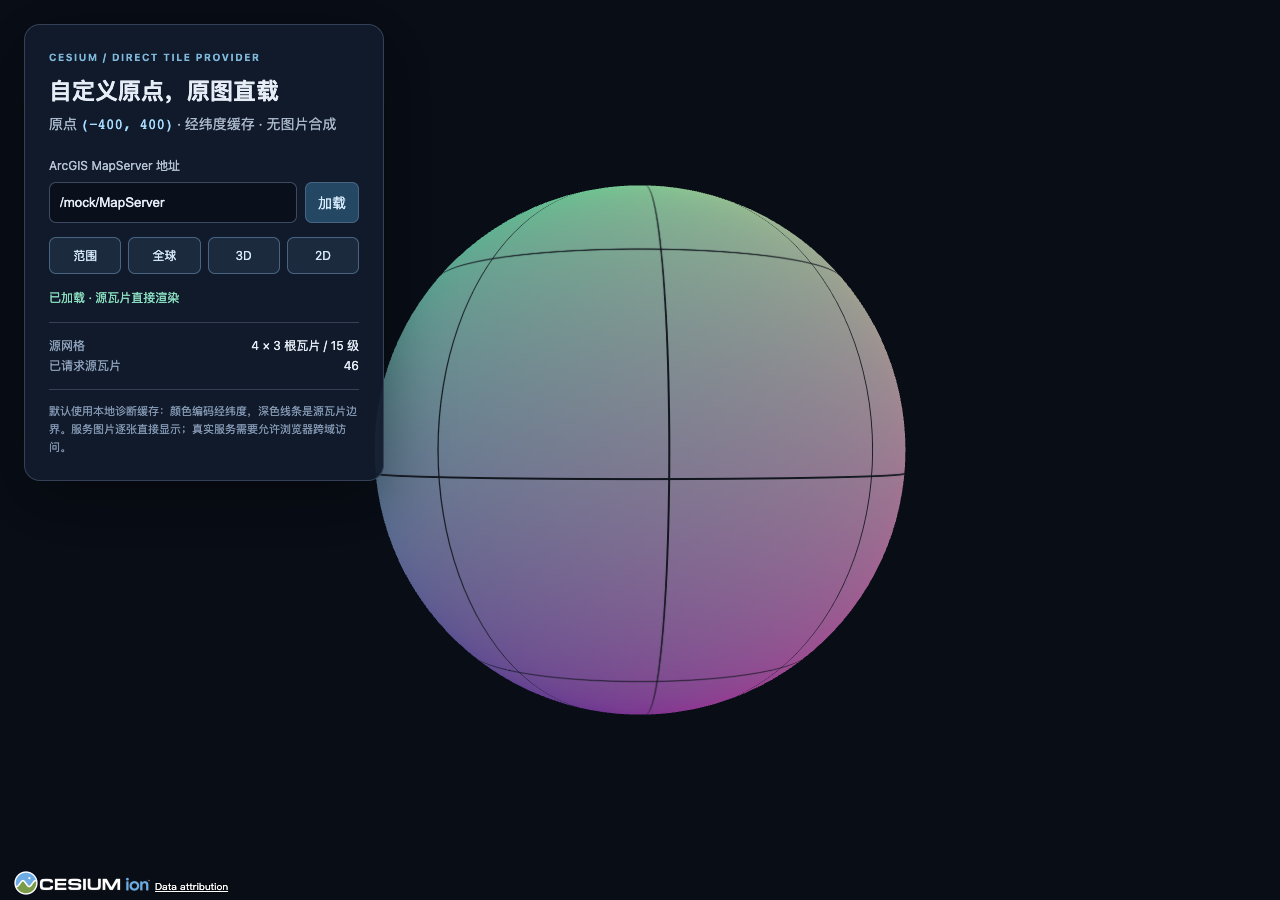
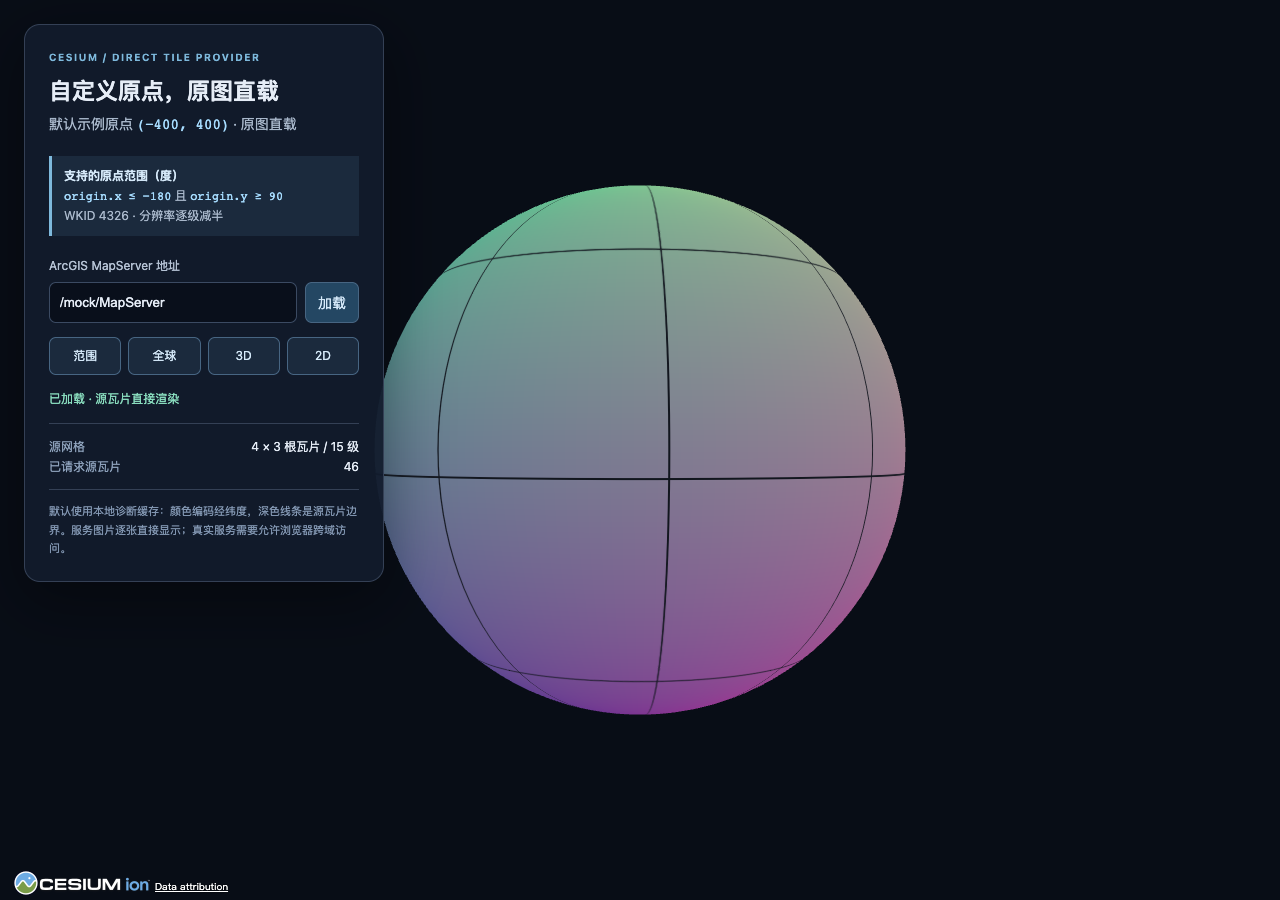
Clarify example origin and supported geographic bounds [skip ci]

diff --git a/src/index.d.ts b/src/index.d.ts
@@ -34,7 +34,7 @@ export interface ArcGisLevelOfDetail {
 export interface ArcGisTileInfo {
   rows: number;
   cols: number;
-  /** Source origin in degrees, with x <= -180 and y >= 90. */
+  /** Finite source origin in degrees. Both x <= -180 AND y >= 90 are required. */
   origin: { x: number; y: number };
   spatialReference: ArcGisSpatialReference;
   lods: ArcGisLevelOfDetail[];
@@ -103,6 +103,8 @@ export class OffsetGeographicTilingScheme extends GeographicTilingScheme {
 /**
  * Direct ArcGIS geographic cache imagery. No image composition, canvas,
  * reprojection, or Cesium prototype patching is performed.
+ * Requires WKID 4326, origin.x <= -180 AND origin.y >= 90 (degrees),
+ * and halving LOD resolutions. Reads the origin from service metadata.
  * Optional Cesium properties follow the upstream ImageryProvider declarations.
  */
 export class ArcGisOffsetImageryProvider implements ImageryProvider {

diff --git a/src/OffsetGeographicTilingScheme.js b/src/OffsetGeographicTilingScheme.js
@@ -40,8 +40,9 @@ function floorCoordinate(value) {
  * its entire image into the clipped area and produce incorrect texture UVs.
  * Use this scheme for imagery, never for a terrain provider or camera bounds.
  *
- * The original grid is padded to whole root tiles covering the world. For
- * origin (-400, 400), 256-pixel tiles and resolution 0.703125, that is a 4 x 3
+ * Supported origins must be finite, with x <= -180 AND y >= 90 (degrees).
+ * The original grid is padded to whole root tiles covering the world. As an
+ * example, origin (-400, 400), 256-pixel tiles and resolution 0.703125 give a 4 x 3
  * root grid over [-400, -140, 320, 400] degrees. Consequently Cesium's normal
  * LOD calculation still sees 720 / 4 = 180 degrees per root tile, and its
  * floor(x / 2), floor(y / 2) parent indices are the ArcGIS source parents.

diff --git a/index.html b/index.html
@@ -11,7 +11,8 @@
     <aside class="panel">
       <div class="eyebrow">CESIUM / DIRECT TILE PROVIDER</div>
       <h1>自定义原点，原图直载</h1>
-      <p>原点 <code>(−400, 400)</code> · 经纬度缓存 · 无图片合成</p>
+      <p>默认示例原点 <code>(−400, 400)</code> · 原图直载</p>
+      <p class="support-range"><strong>支持的原点范围（度）</strong><br /><code>origin.x ≤ −180</code> 且 <code>origin.y ≥ 90</code><br />WKID 4326 · 分辨率逐级减半</p>
       <form id="service-form">
         <label for="service-url">ArcGIS MapServer 地址</label>
         <div class="input-row"><input id="service-url" value="/mock/MapServer" spellcheck="false" /><button type="submit">加载</button></div>

diff --git a/demo/style.css b/demo/style.css
@@ -6,6 +6,8 @@ body { background: #080d16; color: #e6edf7; font: 14px/1.65 -apple-system, Blink
 h1 { font-size: 23px; margin: 9px 0 5px; line-height: 1.4; }
 p { color: #a9b8cb; margin: 5px 0 20px; }
 code { color: #a6dcff; }
+.support-range { padding: 10px 12px; border-left: 3px solid #7eb9dc; background: #1b2a3d; font-size: 12px; }
+.support-range strong { color: #d6eafa; }
 label { display: block; font-size: 12px; color: #b5c2d4; margin-bottom: 6px; }
 .input-row { display: flex; gap: 8px; }
 input { min-width: 0; flex: 1; padding: 10px; color: #e6edf7; background: #090f1b; border: 1px solid #3b4a62; border-radius: 7px; outline-offset: 3px; }

diff --git a/src/ArcGisOffsetImageryProvider.js b/src/ArcGisOffsetImageryProvider.js
@@ -39,6 +39,8 @@ function geographicRectangle(extent, name) {
 
 /**
  * An independent ImageryProvider for an ArcGIS geographic tile cache.
+ * Supports WKID 4326, origin.x <= -180 AND origin.y >= 90 (degrees), and
+ * halving LOD resolutions. The origin is read from service metadata.
  * Each request returns exactly one original server tile. No canvas, cropping,
  * image composition, reprojection, or Cesium prototype patches are performed.
  * Construct with fromUrl(), or fromMetadata() when metadata is already available.

diff --git a/tests/types.ts b/tests/types.ts
@@ -17,7 +17,7 @@ const metadata: ArcGisMapServerMetadata = {
     rows: 256,
     cols: 256,
     spatialReference: { wkid: 4326 },
-    origin: { x: -400, y: 400 },
+    origin: { x: -400, y: 400 }, // Example within x <= -180 AND y >= 90.
     lods: [
       { level: 0, resolution: 0.703125 },
       { level: 1, resolution: 0.3515625 },

diff --git a/tests/fixtures/metadata.js b/tests/fixtures/metadata.js
@@ -1,4 +1,4 @@
-/** Synthetic ArcGIS geographic cache metadata; no live service is required. */
+/** Synthetic test metadata. (-400, 400) is the default example, not a Provider constant. */
 export function makeMetadata({ origin = { x: -400, y: 400 }, wkid = 4326 } = {}) {
   return {
     currentVersion: 11.3,

diff --git a/docs/principle.md b/docs/principle.md
@@ -2,15 +2,24 @@
 
 本项目让 Cesium 的**影像网格采用 ArcGIS 服务的实际网格**。地形网格保持原样，一块地形可以使用多张相交的源影像。每个影像请求仍返回一张完整原图，由 Cesium 计算纹理坐标并交给 GPU 显示。
 
+**当前支持的原点范围（度）：`origin.x <= -180` 且 `origin.y >= 90`。** 还需满足 WKID 4326、分辨率逐级减半及[完整方案要求](../README.md#支持的切片方案)。原点从服务元数据读取；下文的 **`(-400,400)` 是计算示例**，并非固定原点或任意原点均可适配的承诺。
+
 ## 1. 为什么默认加载器会错位
 
 标准 `GeographicTilingScheme` 的全球零级网格为 `2×1`，覆盖 `[-180,-90,180,90]` 度。对于 256 像素、零级分辨率 `0.703125°/像素` 的方案，每张零级瓦片跨度为 `180°×180°`。
 
-当 ArcGIS 切片原点是 `(-400,400)` 时，同一个行列号对应的地理范围已经变化。如果仍使用 Cesium 默认网格来定位图片，URL 虽然可以取到图，图片却会被贴到错误的位置。
+以 ArcGIS 切片原点 `(-400,400)` 为例，同一个行列号对应的地理范围已经变化。如果仍使用 Cesium 默认网格来定位图片，URL 虽然可以取到图，图片却会被贴到错误的位置。
 
 ## 2. 用完整源瓦片扩展数学网格
 
-本项目保留 `(-400,400)` 为左上角，保留每张根瓦片 `180°×180°` 的跨度。要覆盖真实地球，需要：
+设服务原点为 `(originX, originY)`，零级瓦片跨度为 `rootWidth × rootHeight`，通用根数量为：
+
+```text
+根列数 = ceil((180 - originX) / rootWidth)
+根行数 = ceil((originY + 90) / rootHeight)
+```
+
+例如采用原点 `(-400,400)`，并让每张根瓦片覆盖 `180°×180°`，则：
 
 ```text
 根列数 = ceil((180 - (-400)) / 180) = 4
@@ -22,22 +31,22 @@
 
 这里扩展的是计算索引用的数学网格，地球形状与相机范围不变。Cesium 按视野和覆盖范围选择影像，并可加载祖先影像用于过渡或失败回退；不会预先下载全部根瓦片和子瓦片。区域服务作为最底层时还受下文的基底层延展规则影响。
 
-**不能只扩大矩形而保持默认的 `2×1` 根数量。** 那会改变单块瓦片跨度和 Cesium 选择影像层级时使用的像素间距。本项目同时设置完整数学范围和 `4×3` 根数量，保持 `720°/4=180°` 的正确零级跨度；后续每级继续对半划分。
+**不能只扩大矩形而保持默认的 `2×1` 根数量。** 那会改变单块瓦片跨度和 Cesium 选择影像层级时使用的像素间距。上述示例同时设置完整数学范围和 `4×3` 根数量，保持 `720°/4=180°` 的正确零级跨度；后续每级继续对半划分。实际根数量始终由服务参数计算。
 
 ## 3. 经纬度与源行列号直接互算
 
-设当前级别每像素分辨率为 `r`，图片为 `cols×rows` 像素：
+设服务元数据中的原点为 `(originX, originY)`，当前级别每像素分辨率为 `r`，图片为 `cols×rows` 像素。通用公式为：
 
 ```text
 W = cols × r
 H = rows × r
 
-column = floor((longitude + 400) / W)
-row    = floor((400 - latitude) / H)
+column = floor((longitude - originX) / W)
+row    = floor((originY - latitude) / H)
 
-west  = -400 + column × W
+west  = originX + column × W
 east  = west + W
-north =  400 - row × H
+north = originY - row × H
 south = north - H
 ```
 
@@ -73,7 +82,7 @@ Cesium 的 `ImageryLayer` 会枚举与地形块相交的影像块，为每一块
 
 Cesium 对最底层影像有特殊处理：它会把区域服务的边缘纹理向覆盖区外延展，用来填满地球。因此 `provider.rectangle` 不能单独禁止基底层延展。需要严格按覆盖区显示时，应在它下面保留一个全球底图或透明全球影像，让本 Provider 作为上层影像；演示采用透明全球影像。该规则来自 `ImageryLayer`，与自定义原点无关。
 
-例如零级源瓦片 `(column=2,row=2)` 的完整范围是：
+沿用前述示例的原点、图片尺寸及分辨率，零级源瓦片 `(column=2,row=2)` 的完整范围是：
 
 ```text
 west=-40, south=-140, east=140, north=40
@@ -103,7 +112,8 @@ parentLevel  = level - 1
 
 ## 支持边界与验证
 
-- 当前支持 WKID 4326、分辨率逐级减半、原点位于地球西北方的缓存，包含 `(-400,400)`。
+- 原点必须是有限数值，并且 **`origin.x <= -180` 与 `origin.y >= 90` 同时成立**；`(-400,400)` 只是满足条件的一个示例。不满足条件的区域服务也会被当前实现拒绝。
+- 还需满足 WKID 4326、分辨率逐级减半及 Cesium 索引范围要求；完整约束见 [README](../README.md#支持的切片方案)。
 - 每次请求返回一张原始图片，没有 Canvas 合成、CPU 图片裁切或图片重投影。正常 GPU 纹理过滤仍然存在。
 - 全球覆盖包含日期变更线两侧及高纬区域；`fullExtent` 或 `options.rectangle` 本身采用 `west>east` 表示跨日期变更线的形式尚不支持。
 - 已在 Cesium 1.146.0 验证，测试及浏览器采样记录见 [验证记录](validation.md)。真实服务的 CORS、认证及缓存完整性仍需实际接入检查。

diff --git a/README.md b/README.md
@@ -1,10 +1,14 @@
 # Cesium ArcGIS 自定义原点影像 Provider
 
-独立的 Cesium `ImageryProvider`，用于直接加载原点为 **`(-400, 400)`** 的 ArcGIS 经纬度缓存切片。保留服务原始切片和行列号，无需修改 Cesium 源码。
+独立的 Cesium `ImageryProvider`，用于直接加载符合下列条件的 ArcGIS 自定义原点经纬度缓存切片。保留服务原始切片和行列号，无需修改 Cesium 源码。
+
+**支持的原点范围（单位：度）：`origin.x <= -180` 且 `origin.y >= 90`，两个条件必须同时满足。** 原点从服务的 `tileInfo.origin` 自动读取，还需满足 **WKID 4326、LOD 分辨率逐级减半**等[切片方案要求](#支持的切片方案)。
+
+**`(-400,400)` 仅是本文和默认演示采用的示例原点，不是固定值，也不是唯一支持的原点。** 例如 `(-180,90)`、`(-200,100)`、`(-512,512)` 均在原点支持范围内；`(-100,80)`、`(0,0)` 则不支持，即使服务只覆盖局部区域，当前实现也会拒绝。
 
 每次 `requestImage(x, y, level)` 只请求并返回一张原始 `/tile/{level}/{row}/{column}` 图片。Provider 不创建 Canvas、不拼图、不裁切图片、不进行图片重投影。Cesium 自身根据地形与影像的相交范围计算纹理坐标，把多张源影像显示在正确位置。
 
-详细说明见 [实现原理：保留源网格，直接显示源瓦片](docs/principle.md)，包括 `4×3` 扩展网格、地形与影像的多图映射、父子层级及边缘 UV 的计算。
+详细说明见 [实现原理：保留源网格，直接显示源瓦片](docs/principle.md)，包括通用网格公式、示例的 `4×3` 扩展网格、地形与影像的多图映射、父子层级及边缘 UV 的计算。
 
 ## 运行演示
 
@@ -90,15 +94,18 @@ Cesium 的 Workers、Assets、Widgets、ThirdParty 等静态文件与 `CESIUM_BA
 | 参数 | 要求 |
 | --- | --- |
 | 空间参考 | `tileInfo.spatialReference` 为 WKID 4326 |
-| 原点 | 支持 `(-400, 400)`，以及满足 `origin.x <= -180`、`origin.y >= 90` 的其他原点 |
+| 原点 | 两个坐标均为有限数值，且 **`origin.x <= -180` 与 `origin.y >= 90` 同时成立**；从元数据读取 |
 | 切片尺寸 | 正整数，按服务的 `cols`、`rows` 使用；标准示例为 `256×256` |
 | LOD | `lods` 按从粗到细排序，分辨率逐级减半 |
 | LOD 编号 | 使用每项实际的 `lod.level`，不要求编号与数组索引相同 |
 | 地理覆盖 | `fullExtent` 为经纬度范围，裁到 `[-180,180] × [-90,90]`；省略时默认全球 |
+| 索引范围 | 最高层级每个方向的网格瓦片数量不超过 `2^31`，以满足 Cesium 的索引范围 |
 
 服务必须具有缓存 `tileInfo`，并能返回原始 `/tile/{level}/{row}/{column}` 图片。当前不支持投影坐标缓存、非二倍 LOD、跨日期变更线形式的覆盖矩形、动态 `/export` 和要素拾取。`fullExtent` 省略空间参考时，按与切片相同的 4326 解释。
 
-只有原点变化时，可保持其他服务参数原样。以下参数产生 `4×3` 个根瓦片：
+原点须位于全球范围的西北侧，才能在当前实现中保留非负源行列号及父子层级。这是本 Provider 当前的实现限制，并非 Cesium 原理上只能接受这些原点。
+
+在上述支持条件内，只有原点变化时可保持其他服务参数原样。以下**示例**采用原点 `(-400,400)`、`256×256` 图片与零级分辨率 `0.703125°/像素`，产生 `4×3` 个根瓦片；其他参数组合的根数量按元数据计算：
 
 ```json
 {
@@ -116,7 +123,7 @@ Cesium 的 Workers、Assets、Widgets、ThirdParty 等静态文件与 `CESIUM_BA
 
 ## 为什么使用扩展网格
 
-以原始 `(-400,400)` 为左上角，每块根瓦片覆盖 `180°×180°`，需要 `4×3` 块才能包住地球。网格的**数学范围**为：
+以本节的**示例原点 `(-400,400)`** 为左上角，每块根瓦片覆盖 `180°×180°`，需要 `4×3` 块才能包住地球。这个示例网格的**数学范围**为：
 
 ```text
 west=-400, south=-140, east=320, north=400  （度）

diff --git a/docs/validation.md b/docs/validation.md
@@ -2,7 +2,9 @@
 
 日期：2026-10-22。项目版本：0.1.1。运行版本：Node.js 24.13.0、Cesium 1.146.0、本机 Chrome 的无界面 WebGL/SwiftShader 渲染。
 
-本记录验证的是本仓库内的模拟 ArcGIS 缓存，原点为 `(-400,400)`，256×256，零级分辨率 `0.703125°/像素`，随后逐级减半。没有接入用户的真实 ArcGIS 服务。
+本记录的浏览器验证采用本仓库内的模拟 ArcGIS 缓存：**示例原点 `(-400,400)`**、256×256、零级分辨率 `0.703125°/像素`，随后逐级减半。没有接入用户的真实 ArcGIS 服务。
+
+**实现支持的原点范围是 `origin.x <= -180` 且 `origin.y >= 90`（度），两个条件必须同时满足**，还需符合 WKID 4326、分辨率逐级减半等[方案要求](../README.md#支持的切片方案)。此处的示例和有限测试用例用于验证实现，不代表原点固定，也不代表已逐一测试范围内的全部参数组合。
 
 ## 已通过
 
@@ -15,7 +17,7 @@
 - 独立空项目安装 `.tgz` 包后，通过 ESM 导入、源网格计算、Cesium 图层创建与包内文档检查。
 - npm 依赖审计：0 个已报告漏洞。
 
-同一代码版本也已通过 GitHub Actions 的 Ubuntu / Node.js 24 / Playwright Chromium 完整检查，含浏览器回归与打包检查：[CI 运行记录（8c1884b）](https://github.com/daizhonggeng/cesium-arcgis-origin-provider/actions/runs/39752948342)。后续仅调整演示按钮文字与本验证记录、截图；按钮调整另经构建和单行显示检查。
+同一运行逻辑已通过 GitHub Actions 的 Ubuntu / Node.js 24 / Playwright Chromium 完整检查，含浏览器回归与打包检查：[CI 运行记录（8c1884b）](https://github.com/daizhonggeng/cesium-arcgis-origin-provider/actions/runs/39752948342)。后续调整为说明文案、源码注释、演示文字与样式及截图。示例原点与支持范围提示另经生产构建、`1280×900` 桌面及 `390×844` 手机浏览器可视检查：文字完整可见，无横向溢出，无运行或控制台错误。
 
 浏览器以地理位置定位，然后从截图中读取对应像素，与服务生成的经纬度编码色比较，允许每通道最多 3 的取样误差：
 
